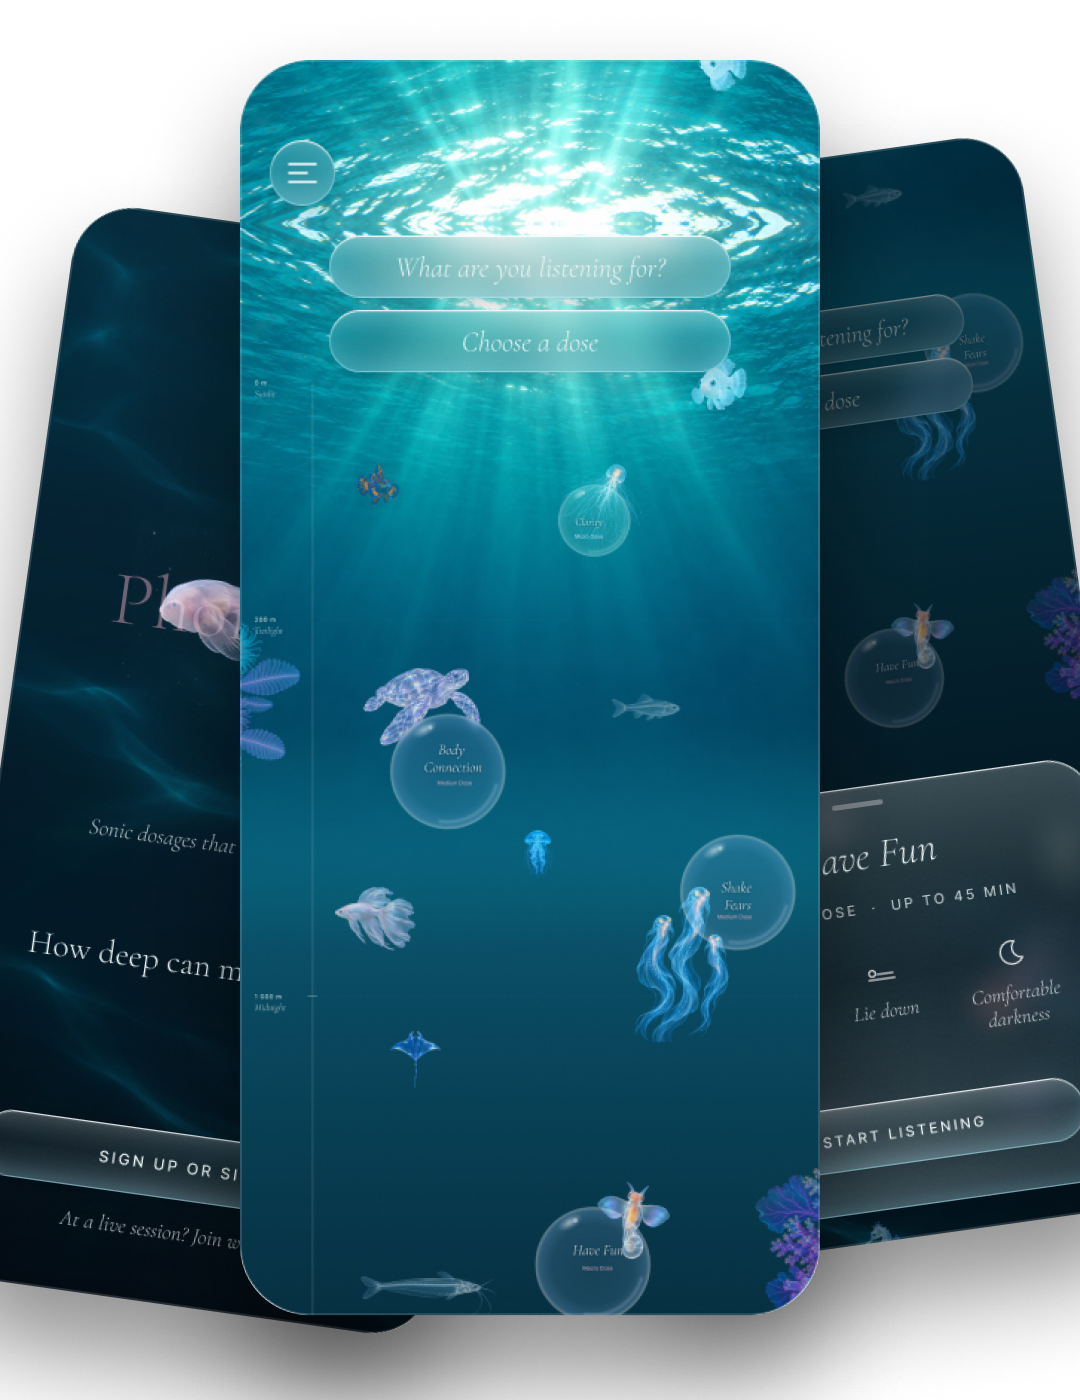
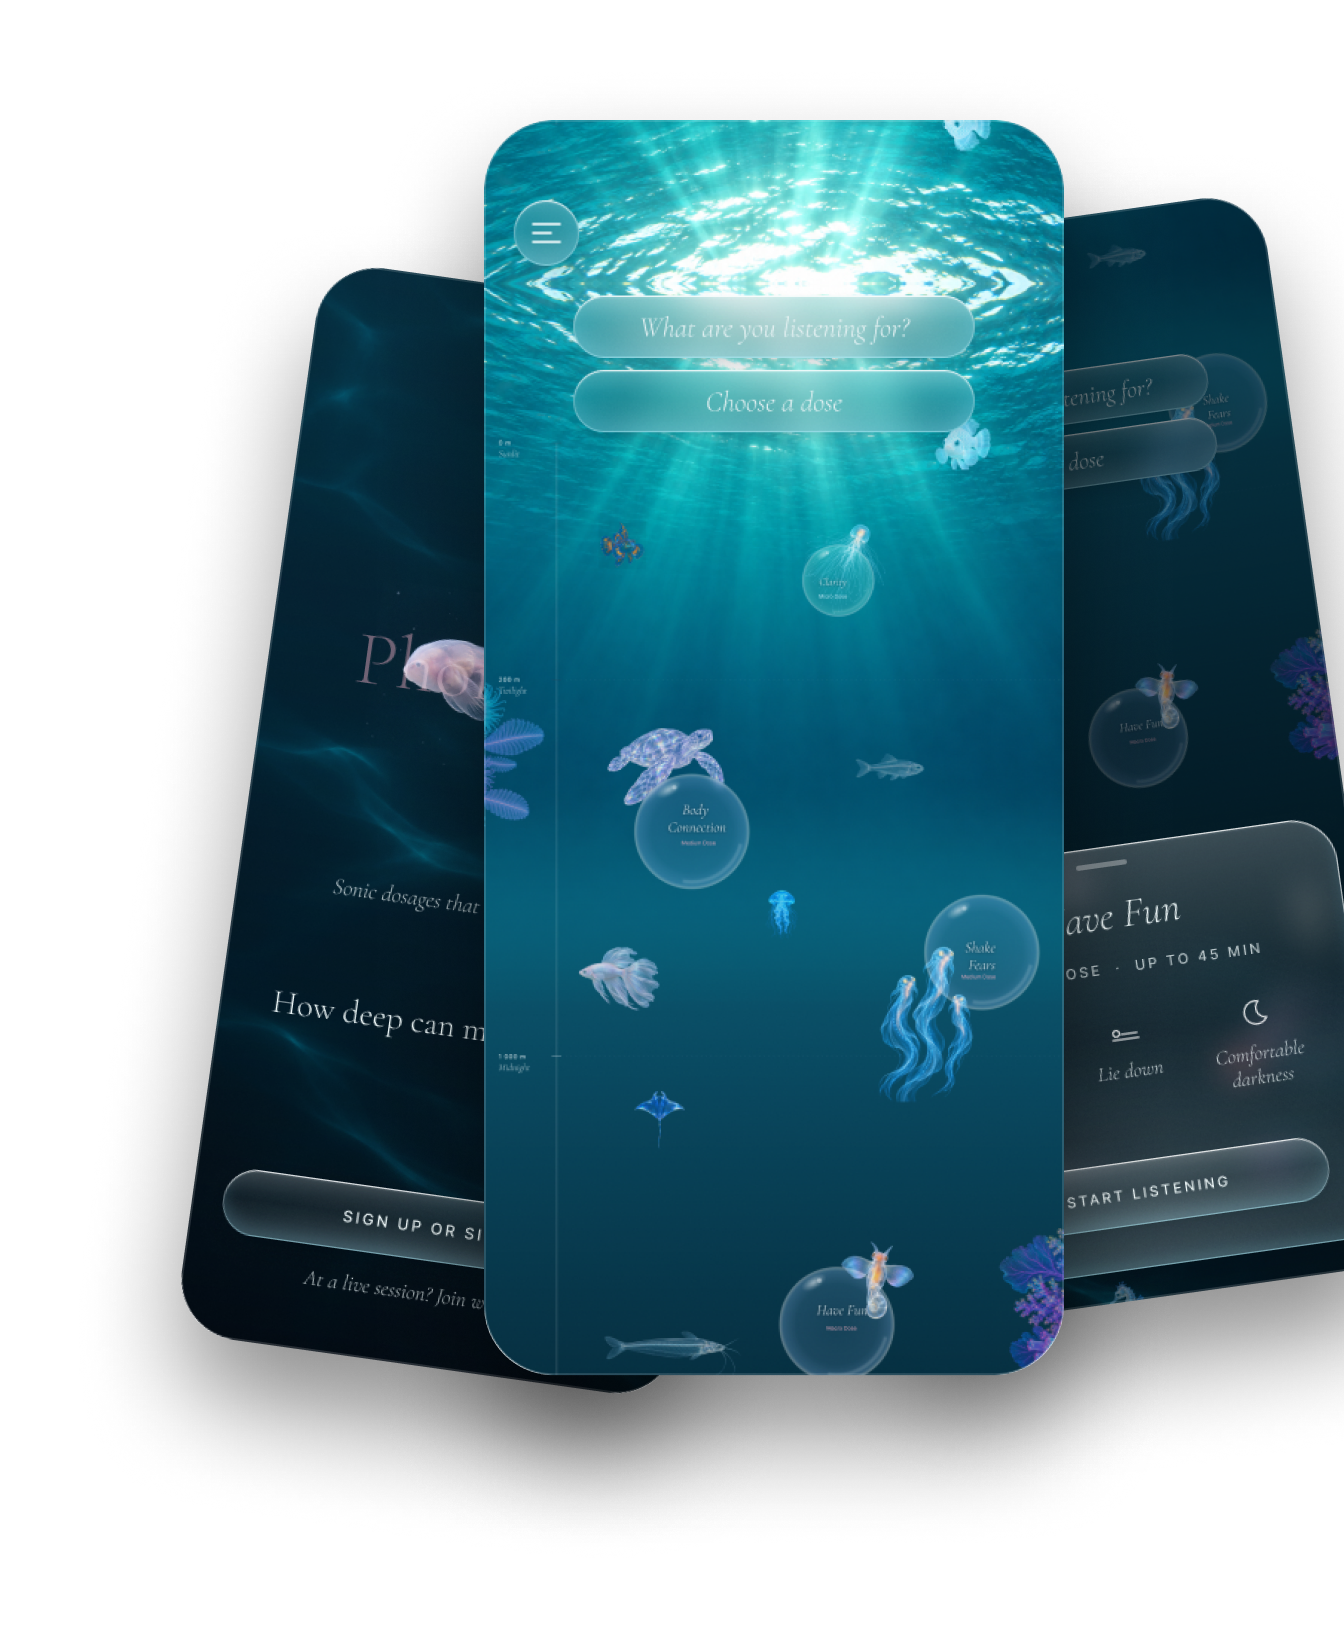
Bring back the earlier sharpened water; hero phones exported with room so none is cut off

diff --git a/styles.css b/styles.css
@@ -96,7 +96,7 @@ button.button { font-family: inherit; cursor: pointer; }
 .logo span { font-family: var(--serif); font-weight: 300; font-size: 28px; color: var(--white); }
 
 /* Hero */
-.hero { position: relative; min-height: 820px; display: flex; align-items: center; background: url("images/hero-phones.png?v=1795481530") right -20px center / auto 86% no-repeat, url("images/water.jpg?v=1795481771") center / cover no-repeat; }
+.hero { position: relative; min-height: 820px; display: flex; align-items: center; background: url("images/hero-phones.png?v=2") right -30px center / auto 96% no-repeat, url("images/water.jpg?v=1795513980") center / cover no-repeat; }
 .hero::after { content: ""; position: absolute; inset: auto 0 0 0; height: 260px; background: linear-gradient(to bottom, rgba(3,17,26,0), var(--sea)); pointer-events: none; }
 .hero__words { position: relative; z-index: 1; max-width: 1440px; width: 100%; margin: 0 auto; padding: 0 80px; }
 .hero h1 { font-size: 76px; max-width: 700px; }
@@ -216,7 +216,7 @@ main > section:not(.hero):not(.wrap)::before, .footer::before {
   content: ""; position: absolute; inset: 0; z-index: -1; pointer-events: none;
   background:
     linear-gradient(to bottom, var(--sea) 0%, rgba(3,17,26,.35) 22%, rgba(3,17,26,.35) 78%, var(--sea) 100%),
-    url("images/water.jpg?v=1795481771") var(--wpos, center) / var(--wsize, cover) no-repeat;
+    url("images/water.jpg?v=1795513980") var(--wpos, center) / var(--wsize, cover) no-repeat;
   transform: var(--wflip, none);
   opacity: var(--wo, .9);
 }

diff --git a/index.html b/index.html
@@ -9,7 +9,7 @@
   <link rel="preconnect" href="https://fonts.googleapis.com">
   <link rel="preconnect" href="https://fonts.gstatic.com" crossorigin>
   <link href="https://fonts.googleapis.com/css2?family=Cormorant+Garamond:ital,wght@0,300;1,300&family=Inter:wght@400;500&display=swap" rel="stylesheet">
-  <link rel="stylesheet" href="styles.css?v=1795481771">
+  <link rel="stylesheet" href="styles.css?v=1795514080">
 </head>
 <body>
 

diff --git a/privacy.html b/privacy.html
@@ -9,7 +9,7 @@
   <link rel="preconnect" href="https://fonts.googleapis.com">
   <link rel="preconnect" href="https://fonts.gstatic.com" crossorigin>
   <link href="https://fonts.googleapis.com/css2?family=Cormorant+Garamond:ital,wght@0,300;1,300&family=Inter:wght@400;500&display=swap" rel="stylesheet">
-  <link rel="stylesheet" href="styles.css?v=1795481771">
+  <link rel="stylesheet" href="styles.css?v=1795514080">
 </head>
 <body>
 

diff --git a/qa.html b/qa.html
@@ -9,7 +9,7 @@
   <link rel="preconnect" href="https://fonts.googleapis.com">
   <link rel="preconnect" href="https://fonts.gstatic.com" crossorigin>
   <link href="https://fonts.googleapis.com/css2?family=Cormorant+Garamond:ital,wght@0,300;1,300&family=Inter:wght@400;500&display=swap" rel="stylesheet">
-  <link rel="stylesheet" href="styles.css?v=1795481771">
+  <link rel="stylesheet" href="styles.css?v=1795514080">
 </head>
 <body>
 
